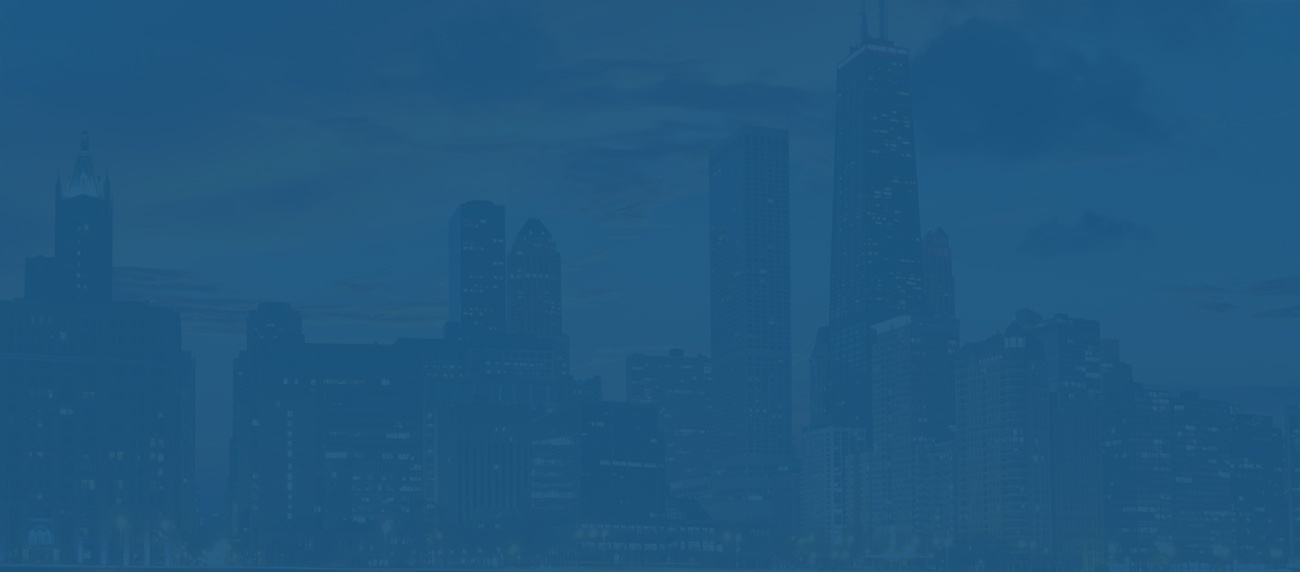
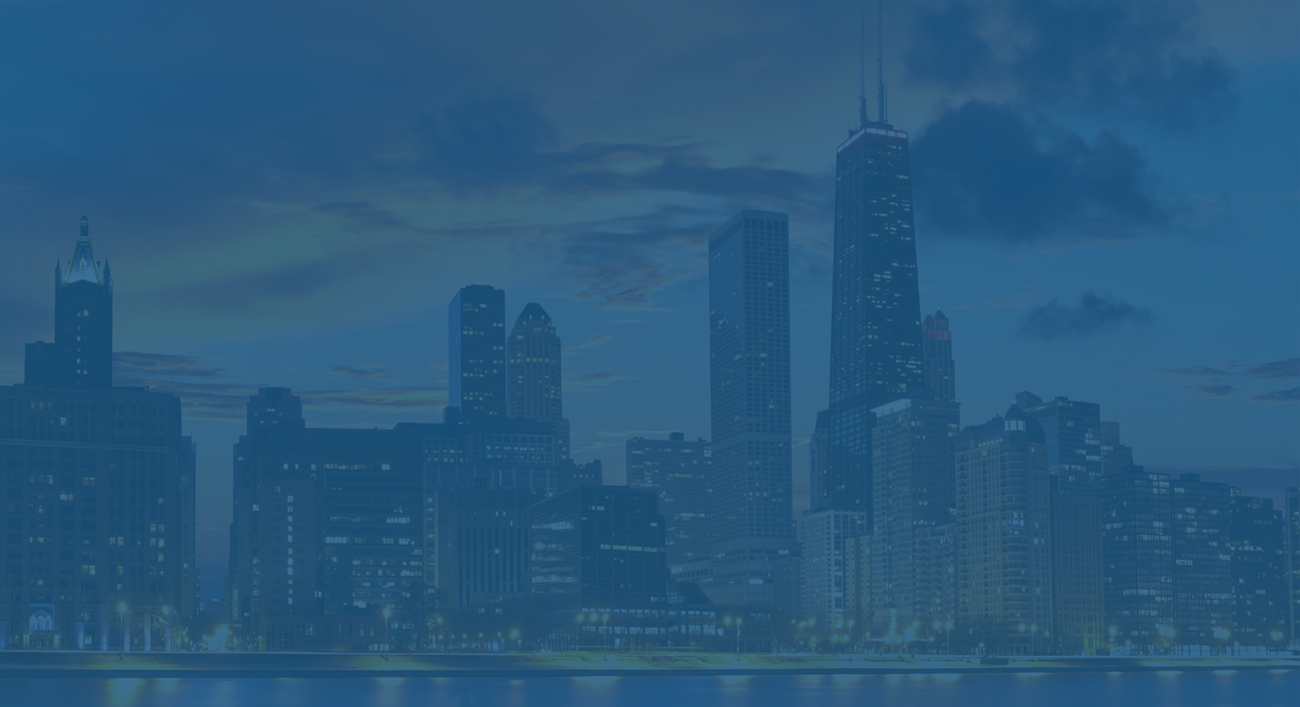
updated blue-screened image contrast

diff --git a/client/main.html b/client/main.html
@@ -1,6 +1,6 @@
 <head>
   <title>Liver.WholeOrgan.org</title>
-  <meta name="description" content="Liver.WholeOrgan.org description goes here">
+  <meta name="description" content="The Whole Liver Research Community is made up of top Academic Investigators from leading research universities and medical facilities worldwide working together to engineer replacement livers for human transplantation.">
 	<meta http-equiv="Content-Type" content="text/html; charset=UTF-8">
 	<meta name="viewport" content="width=device-width, initial-scale=1.0, , maximum-scale=1.0, user-scalable=no">
 

diff --git a/client/views/articles/articleList.html b/client/views/articles/articleList.html
@@ -1,7 +1,7 @@
 <template name="articleList">
 
 
-	<div class="hero standard-hero">
+	<div class="hero papers-hero">
 
 		<div class="wo-plug hidden-sm hidden-xs">
 			<hr class="spacer10">

diff --git a/client/views/includes/landing.html b/client/views/includes/landing.html
@@ -146,7 +146,7 @@
 				</div>
 			</div> <!-- row -->
 
-			<hr class="spacer60">
+			<hr class="spacer30">
 
 		</div> <!-- container -->
 	</div> <!-- event hero -->
